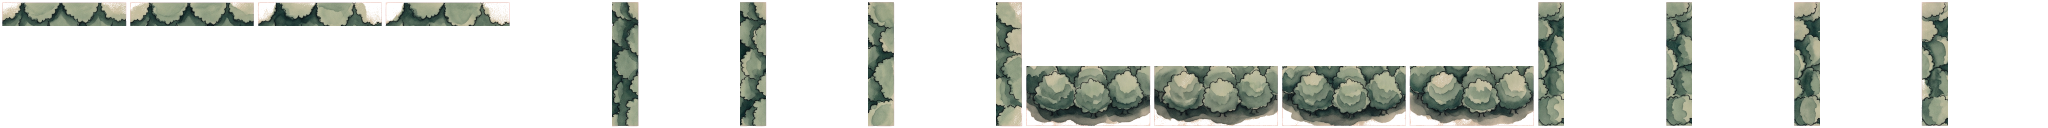
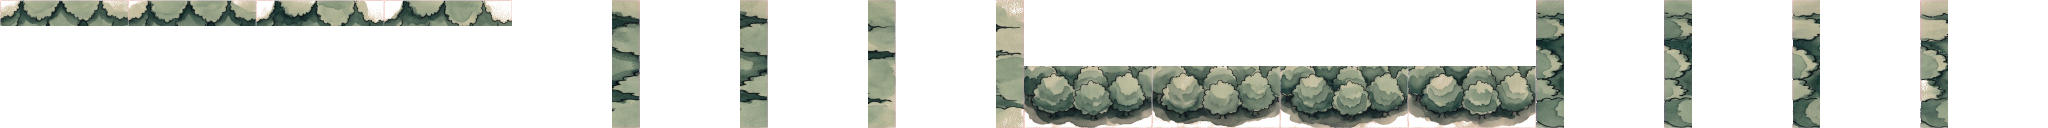
Replace the cliff sheet, find the grid, and close a gap in every treeline
The corner and band art no longer disagree, because they are now one set:
`cliff-edges.png` and `cliff-corners.png` were generated back to back, so they
match by construction rather than by a transform. `Gemini_Stones.png` is
superseded and moves to the git-ignored dump; it stays in history if the
watercolour is ever wanted back.

Taking the new sheet found three faults in the intake, each hidden until now by
the old art happening not to trigger it.

**The grid was assumed, not found.** `build-rims.js` sliced the 4x4 at exact
quarters. The new sheet's rows sit at y 25-144, 209-515, 604-818 and 842-1176 in
a 1240-tall image, so three of four straddle a quarter cut and every extracted
cell was part of one row plus part of the next. The grid is now read from the
sheet's own gutters, with an even split as a fallback the build reports rather
than takes silently. Same call as keying the magenta: the model reliably paints
four rows of four and reliably will not put them on pixel boundaries. Finding
gutters needs a far looser bar than `LINE_COVERAGE` -- reusing that constant split
the four narrow east strips into five bands.

**Frames were cropped in one axis only.** Across the named direction the builder
took the whole cell, which is right only if the painting runs to its own edges.
The new sheet's south row spanned 5%..93% of its width and its east variants
started at 76, 30, 64 and 28 per cent, so nothing touched the edge it is named
[…]

diff --git a/tools/build-rims.js b/tools/build-rims.js
@@ -110,7 +110,7 @@ const SHEETS = [
   // or already transparent.
   // Absent, the sheet is built with sixteen edge frames exactly as before -- which is what ships
   // today, and why this is safe to have in place before the art exists.
-  { id: 'cliffs', from: 'Gemini_Stones.png', to: 'cliffs.png', corners: 'cliff-corners.png' },
+  { id: 'cliffs', from: 'cliff-edges.png', to: 'cliffs.png', corners: 'cliff-corners.png' },
   { id: 'treeline', from: 'Gemini_tree-rim2.png', to: 'treeline.png' }
 ];
 
@@ -364,45 +364,108 @@ function resample(src, sw, box, outW, outH) {
 const LINE_COVERAGE = 1 / 12;
 
 /**
- * The part of a keyed cell that actually holds art, measured rather than assumed.
+ * Runs of lines that hold art, along one axis of a keyed image.
  *
- * The model is asked for a depth and paints approximately that -- in practice consistently deeper,
- * around 180px where 72 was requested -- so neither the request nor a fixed fraction is the right
- * crop. This finds where the art really stops, scanning in from the far side and ignoring lines too
- * sparse to be part of the mass.
+ * **The grid is found, not assumed, and that is the third container problem to move in here.** The
+ * prompt asks for a 4 x 4 grid and every sheet so far has delivered four rows of four cells -- but
+ * not on exact quarters. One arrived with its rows at y 25-144, 209-515, 604-818 and 842-1176 in a
+ * 1240-tall image, so three of the four straddled a quarter cut and every extracted cell was part
+ * of one row plus part of the next. The sheet before it happened to sit inside its quarters and
+ * hid the assumption entirely.
+ *
+ * Asking a model to hit exact pixel boundaries has failed on layout twice already (2x3 versus 3x2,
+ * and art floating clear of its own cell edges). Finding the gutters is arithmetic.
  */
-function contentDepth(cell, size, edge) {
-  const opaque = (x, y) => cell[(y * size + x) * 4 + 3] > 24;
-  const need = Math.max(2, Math.round(size * LINE_COVERAGE));
-  const rowHas = (y) => {
+function contentRuns(cell, width, height, axis) {
+  const opaque = (x, y) => cell[(y * width + x) * 4 + 3] > 24;
+  const outer = axis === 'y' ? height : width;
+  const inner = axis === 'y' ? width : height;
+  // **A far looser bar than `LINE_COVERAGE`, on purpose.** That constant asks "is this line part of
+  // the mass of the art", which is the right question for a depth crop and the wrong one here: a
+  // gutter is magenta all the way across, so anything at all makes a line content. Reusing the
+  // twelfth split the four narrow east strips into five bands, because a row crossing them is only
+  // about a twelfth covered and flickers either side of the bar. A couple of stray specks still
+  // must not bridge two cells, hence not zero.
+  const need = Math.max(3, Math.round(inner * 0.01));
+  const has = (i) => {
     let n = 0;
-    for (let x = 0; x < size; x += 1) if (opaque(x, y) && (n += 1) >= need) return true;
+    for (let j = 0; j < inner; j += 1) {
+      const x = axis === 'y' ? j : i;
+      const y = axis === 'y' ? i : j;
+      if (opaque(x, y) && (n += 1) >= need) return true;
+    }
     return false;
   };
-  const colHas = (x) => {
-    let n = 0;
-    for (let y = 0; y < size; y += 1) if (opaque(x, y) && (n += 1) >= need) return true;
-    return false;
-  };
-  if (edge === 'n') {
-    for (let y = size - 1; y >= 0; y -= 1) if (rowHas(y)) return y + 1;
-  } else if (edge === 's') {
-    for (let y = 0; y < size; y += 1) if (rowHas(y)) return size - y;
-  } else if (edge === 'w') {
-    for (let x = size - 1; x >= 0; x -= 1) if (colHas(x)) return x + 1;
-  } else {
-    for (let x = 0; x < size; x += 1) if (colHas(x)) return size - x;
+  const runs = [];
+  let start = null;
+  for (let i = 0; i < outer; i += 1) {
+    if (has(i)) {
+      if (start === null) start = i;
+    } else if (start !== null) {
+      runs.push([start, i]);
+      start = null;
+    }
   }
-  return 0;
+  if (start !== null) runs.push([start, outer]);
+  // Join runs separated by a hairline. A cell whose art has a thin waist reads as two runs, and a
+  // real gutter between two cells is far wider than that.
+  const joined = [];
+  for (const run of runs) {
+    const last = joined[joined.length - 1];
+    if (last && run[0] - last[1] < outer / 60) last[1] = run[1];
+    else joined.push([...run]);
+  }
+  // Ignore slivers: a stray mark between two cells is not a cell.
+  return joined.filter(([a, b]) => b - a > outer / 40);
+}
+
+/**
+ * Slice a keyed sheet into `rows` x `cols` cell rectangles, by its own gutters where it has them.
+ *
+ * Falls back to even division per axis when the run count does not match what is expected, and says
+ * so, because a silently wrong slice is the failure this whole function exists to stop.
+ */
+function findGrid(cell, width, height, rows, cols, note) {
+  const bands = contentRuns(cell, width, height, 'y');
+  let yRanges;
+  if (bands.length === rows) {
+    yRanges = bands;
+  } else {
+    note(`found ${bands.length} row bands, expected ${rows} -- falling back to even rows`);
+    yRanges = Array.from({ length: rows }, (_, r) => [
+      Math.round((r * height) / rows),
+      Math.round(((r + 1) * height) / rows)
+    ]);
+  }
+  return yRanges.map(([y0, y1], r) => {
+    const strip = Buffer.alloc(width * (y1 - y0) * 4);
+    cell.copy(strip, 0, y0 * width * 4, y1 * width * 4);
+    const groups = contentRuns(strip, width, y1 - y0, 'x');
+    let xRanges;
+    if (groups.length === cols) {
+      xRanges = groups;
+    } else {
+      note(`row ${r}: found ${groups.length} cells, expected ${cols} -- falling back to even columns`);
+      xRanges = Array.from({ length: cols }, (_, c) => [
+        Math.round((c * width) / cols),
+        Math.round(((c + 1) * width) / cols)
+      ]);
+    }
+    return xRanges.map(([x0, x1]) => ({ x0, x1, y0, y1 }));
+  });
 }
 
 /**
  * The bounding box of everything opaque in a cell.
  *
- * Same job `contentDepth` does for a band, in two dimensions: find where the art really is rather
- * than trusting the layout it was asked for. It uses the same coverage floor, so a stray speck near
- * a corner of the canvas cannot drag the box out to the full cell and undo the crop -- which is the
- * failure `LINE_COVERAGE` was added for in the first place.
+ * Find where the art really is rather than trusting the layout it was asked for. Every sheet so
+ * far has painted approximately the depth it was asked for and never exactly, so neither the
+ * request nor a fixed fraction is the right crop.
+ *
+ * It uses `LINE_COVERAGE` as a floor, so a stray speck near a corner of the canvas cannot drag the
+ * box out to the full cell and undo the crop. Two cliff frames once measured the whole cell on the
+ * strength of a handful of loose pixels near the far edge, when what was actually opaque was a band
+ * a fifth that deep.
  */
 function contentBox(cell, width, height) {
   const opaque = (x, y) => cell[(y * width + x) * 4 + 3] > 24;
@@ -451,9 +514,13 @@ function buildSheet({ id, from, to, corners }, apply) {
     return null;
   }
   const img = decodePng(file);
-  const cols = VARIANTS;
-  const cellW = Math.floor(img.width / cols);
-  const cellH = Math.floor(img.height / ROWS.length);
+  // Key the whole sheet once, then find its gutters. Both have to happen before anything is sliced:
+  // a gutter is only visible once the magenta is transparent.
+  const wholeKeyed = key(img.data, img.width, img.height);
+  const warnings = [];
+  const grid = findGrid(wholeKeyed, img.width, img.height, ROWS.length, VARIANTS, (m) =>
+    warnings.push(m)
+  );
   const sheet = Buffer.alloc(CELL * VARIANTS * ROWS.length * CELL * 4);
   const sheetW = CELL * VARIANTS * ROWS.length;
   const report = [];
@@ -461,33 +528,50 @@ function buildSheet({ id, from, to, corners }, apply) {
   ROWS.forEach((edge, row) => {
     const depths = [];
     for (let v = 0; v < VARIANTS; v += 1) {
-      // Lift one cell out of the grid and key it. Gridlines drawn between frames are the key colour
-      // too, so they disappear here rather than needing to be found.
-      const cell = Buffer.alloc(cellW * cellH * 4);
+      // Lift one cell out of the grid. It is cut from the already-keyed sheet, so gridlines drawn
+      // between frames are gone before the gutters were measured rather than after.
+      const rect = grid[row][v];
+      const cellW = rect.x1 - rect.x0;
+      const cellH = rect.y1 - rect.y0;
+      const keyed = Buffer.alloc(cellW * cellH * 4);
       for (let y = 0; y < cellH; y += 1) {
-        for (let x = 0; x < cellW; x += 1) {
-          const si = ((row * cellH + y) * img.width + v * cellW + x) * 4;
-          const di = (y * cellW + x) * 4;
-          cell[di] = img.data[si];
-          cell[di + 1] = img.data[si + 1];
-          cell[di + 2] = img.data[si + 2];
-          cell[di + 3] = img.data[si + 3];
-        }
+        const from = ((rect.y0 + y) * img.width + rect.x0) * 4;
+        wholeKeyed.copy(keyed, y * cellW * 4, from, from + cellW * 4);
       }
-      const keyed = key(cell, cellW, cellH);
 
-      // Crop to the art, but never past the depth the layout allows: a frame where the model
-      // over-painted must not push a taller band than the engine expects.
-      const measured = contentDepth(keyed, Math.min(cellW, cellH), edge);
-      const limit = Math.round(DEPTH[edge] * Math.min(cellW, cellH));
-      const deep = Math.min(measured || limit, limit);
+      // **Crop to where the art is, in both axes.** Along the named direction that is a depth
+      // crop, capped so an over-painted frame cannot push a taller band than the engine expects.
+      // Across it, the crop is what makes a run of bands join up at all.
+      //
+      // That second half was added when a sheet arrived with every frame floating inside its cell:
+      // the south row spanned 5%..93% of its width and the east row's four variants started at 76,
+      // 30, 64 and 28 per cent, so no frame touched the edge it is named for. Laid end to end that
+      // is a gap in the wall at every tile boundary, and a strip that is not against its own side.
+      // The sheet before it happened to touch at 1%..99% and hid the assumption completely.
+      const content = contentBox(keyed, cellW, cellH);
       const horizontal = edge === 'n' || edge === 's';
+      const across = Math.min(cellW, cellH);
+      const span = horizontal ? content.y1 - content.y0 : content.x1 - content.x0;
+      const limit = Math.round(DEPTH[edge] * across);
+      const deep = Math.min(span || limit, limit);
       const box = horizontal
-        ? { x0: 0, x1: cellW, y0: edge === 'n' ? 0 : cellH - deep, y1: edge === 'n' ? deep : cellH }
-        : { x0: edge === 'w' ? 0 : cellW - deep, x1: edge === 'w' ? deep : cellW, y0: 0, y1: cellH };
+        ? {
+            x0: content.x0,
+            x1: content.x1,
+            y0: edge === 'n' ? content.y0 : content.y1 - deep,
+            y1: edge === 'n' ? content.y0 + deep : content.y1
+          }
+        : {
+            y0: content.y0,
+            y1: content.y1,
+            x0: edge === 'w' ? content.x0 : content.x1 - deep,
+            x1: edge === 'w' ? content.x0 + deep : content.x1
+          };
 
-      const bandW = horizontal ? CELL : Math.max(1, Math.round((deep / cellW) * CELL));
-      const bandH = horizontal ? Math.max(1, Math.round((deep / cellH) * CELL)) : CELL;
+      // The perpendicular axis is stretched to the whole cell -- that is the join. The named axis
+      // keeps its measured proportion.
+      const bandW = horizontal ? CELL : Math.max(1, Math.round((deep / across) * CELL));
+      const bandH = horizontal ? Math.max(1, Math.round((deep / across) * CELL)) : CELL;
       const band = resample(keyed, cellW, box, bandW, bandH);
       const frame = place(band, bandW, bandH, edge);
 
@@ -584,9 +668,29 @@ function buildSheet({ id, from, to, corners }, apply) {
       // the scene is worth the arithmetic here -- measured, the stacked version put the cliff layer
       // at +69% blended pixels where this costs nothing over the corner quad already drawn.
       if (!name.startsWith('cap-')) {
-        // One south variant per piece, so the four corners look as different from each other as
-        // the four straight variants do.
-        const under = (ROWS.indexOf('s') * VARIANTS + index % VARIANTS) * CELL;
+        // **Pick the band variant by what it does at the open end.** The straight variants are
+        // deliberately ragged -- two of the four carry no art at all in their leftmost column, and
+        // that is what makes a run of them not read as one extruded strip. On a corner that
+        // raggedness lands in the worst possible place: the open end is the one the neighbouring
+        // tile's band has to meet, and picking blind put it at 41px against a 62px neighbour on
+        // half the pieces. So the variant is chosen rather than hashed, by measuring coverage in
+        // the column that matters.
+        //
+        // A corner whose vertical arm is on the right runs its horizontal arm out to the left, and
+        // the other way round.
+        const openX = name.endsWith('-se') ? 0 : CELL - 1;
+        const depthAt = (variant, x) => {
+          const base = (ROWS.indexOf('s') * VARIANTS + variant) * CELL;
+          for (let y = 0; y < CELL; y += 1) {
+            if (sheet[(y * sheetW + base + x) * 4 + 3] > 24) return CELL - y;
+          }
+          return 0;
+        };
+        let best = 0;
+        for (let v = 1; v < VARIANTS; v += 1) {
+          if (depthAt(v, openX) > depthAt(best, openX)) best = v;
+        }
+        const under = (ROWS.indexOf('s') * VARIANTS + best) * CELL;
         for (let y = 0; y < CELL; y += 1) {
           for (let x = 0; x < CELL; x += 1) {
             const f = (y * CELL + x) * 4;
@@ -624,6 +728,7 @@ function buildSheet({ id, from, to, corners }, apply) {
   const kb = (png.length / 1024).toFixed(1);
   console.log(`  ${id}: ${from} (${img.width}x${img.height}) -> ${to} ${wideW}x${CELL}, ${frames} frames, ${kb} KB`);
   console.log(`    ${report.join('   ')}`);
+  for (const w of warnings) console.log(`    ! ${w}`);
   if (apply) fs.writeFileSync(path.join(OUT, to), png);
   return png;
 }

diff --git a/docs/props-and-rims-plan.md b/docs/props-and-rims-plan.md
@@ -112,11 +112,21 @@ Against the decor layer's measured 2.6 ms per million on SwiftShader that is abo
 
 Two things are honestly still wrong, both recorded rather than fixed:
 
-**The corner art is a different painting from the band art.** Mean colour matches almost exactly —
-`[128, 111, 92]` against `[135, 117, 94]` — but the corners are a fine cobble mosaic where the bands
-are large smooth boulders, so adjacent tiles read as two rocks. No build-time transform fixes
-texture frequency. Fixing it means repainting one side to match the other, which is its own art
-round and is not scheduled.
+**The corner art was a different painting from the band art** — mean colour matched almost exactly,
+`[128, 111, 92]` against `[135, 117, 94]`, but the corners were a fine cobble mosaic where the bands
+were large smooth boulders, so adjacent tiles read as two rocks. **Resolved by replacing the whole
+sheet**: `cliff-edges.png` and `cliff-corners.png` are one pixel-art set, generated back to back, so
+they match by construction. `Gemini_Stones.png` is superseded and has moved to
+`assets/source/dump/`; it is still in git history if the watercolour is ever wanted back.
+
+**What the new set is worse at, recorded rather than hidden.** Its south face is better — bigger
+boulders, darker soil, more contrast. Its other three rows are worse than the sheet it replaced:
+the north lip crops to soil and grass with no rock in it, and the east and west strips are drawn as
+*horizontal* slabs stacked up a narrow column where the old ones were vertically stacked boulders,
+so at 28px wide they read as streaks. That is the art rather than the crop — the source strips are
+drawn that way. A re-roll wants two sentences the prompt did not have: **the lip must show rock and
+not only the soil above it**, and **a side strip is a vertical stack of rounded boulders, never
+horizontal layers**.
 
 **A corner's horizontal arm was 34px deep where a straight band is 62 — fixed by baking, not by
 scaling.** Matching the depth by scaling needs a 1.8× vertical stretch that stands every boulder up

diff --git a/docs/continuous-edges-plan.md b/docs/continuous-edges-plan.md
@@ -31,6 +31,27 @@ talus of loose stone into the ground below it, which is what makes a cliff read 
 something rather than being pasted over it. `planCliffJoints` already scatters stone — but only at a
 run's *ends*, never along its base.
 
+### And one that was worse than all three, now fixed
+
+**Every treeline in the shipped game had a gap at every tile boundary.** Measured on
+`assets/treeline.png` as it stood: the south band's depth at columns 0 and 127 was **0 on all four
+variants**, so a run of forest edge was four islands with daylight between them rather than a wall
+of trees. The cliff sheet mostly touched, so nothing ever pointed at the shared cause.
+
+The cause was the intake, not the art. `tools/build-rims.js` cropped each frame to its content in
+the *named* direction only and took the full cell across it, which is correct only if the painting
+happens to run to its own cell edges. It now crops in both axes and stretches the perpendicular one
+to fill the cell, so the join is made rather than hoped for. Both sheets now read the full 62px at
+every column a neighbour has to meet.
+
+**A third container problem moved into code at the same time.** The builder sliced the 4 × 4 grid at
+exact quarters. A sheet arrived with its rows at y 25–144, 209–515, 604–818 and 842–1176 in a
+1240-tall image — three of the four straddling a quarter cut — so every extracted cell was part of
+one row plus part of the next, and every downstream measurement was of a cell that did not exist.
+The grid is now found from the sheet's own gutters, with an even split as a reported fallback. That
+is the same call as keying the magenta and cropping to content: the model reliably paints four rows
+of four, and reliably will not put them on exact pixel boundaries.
+
 ### And two measurements that decide what is worth building
 
 **The median south-face run is one tile.** Across the four maps: 83 runs of one tile, 31 of two, 10
